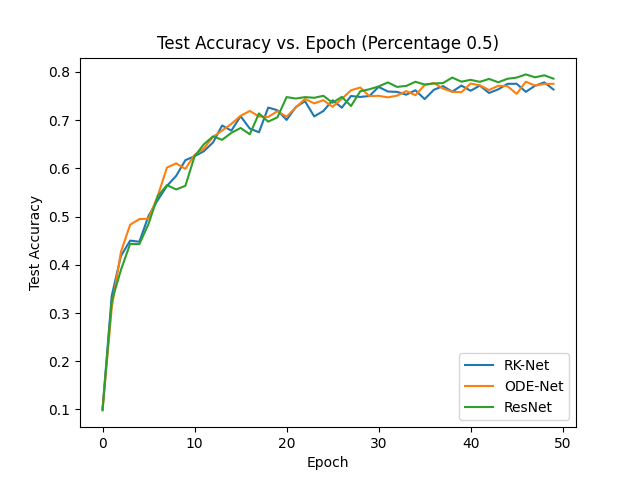
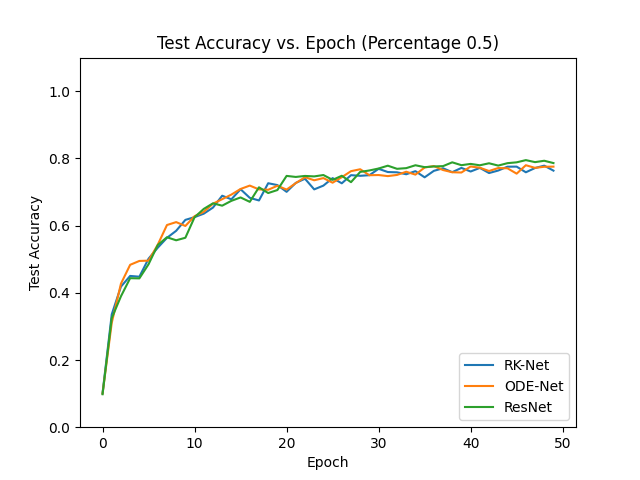
Changes y limit plots

diff --git a/experiments_data/plots_cifar10.py b/experiments_data/plots_cifar10.py
@@ -34,6 +34,9 @@ for percentage in percentage_values:
     ax.set_ylabel('Test Accuracy')
     ax.set_title(f'Test Accuracy vs. Epoch (Percentage {percentage})')
 
+    # Set y-axis limits from 0 to 1
+    ax.set_ylim(0, 1.1)
+
     # Add a legend at the bottom right
     ax.legend(loc='lower right')
 

diff --git a/experiments_data/plots_mnist.py b/experiments_data/plots_mnist.py
@@ -34,6 +34,9 @@ for percentage in percentage_values:
     ax.set_ylabel('Test Accuracy')
     ax.set_title(f'Test Accuracy vs. Epoch (Percentage {percentage})')
 
+    # Set y-axis limits from 0 to 1
+    ax.set_ylim(0, 1.1)
+
     # Add a legend at the bottom right
     ax.legend(loc='lower right')
 

diff --git a/README.md b/README.md
@@ -1,0 +1,77 @@
+# ODE-Net Analysis
+
+Explores the performance of ODE-Net, RK-Net, 
+and ResNet architectures on the MNIST and CIFAR-10 dataset. 
+Aims to visualize and compare test accuracy 
+results when training the model using randomly selected
+sample as percentage of the initial dataset.
+
+## Table of Contents
+
+- [Test Accuracy Plots](#test-accuracy-plots)
+  - [Percentage 0.01](#mnist-1)
+  - [Percentage 0.05](#percentage-005)
+  - [Percentage 0.1](#percentage-01)
+  - ... (repeat for other percentage values)
+- [Author](#author)
+- [License](#license)
+
+
+## Test Accuracy Plots
+
+Here, we present the test accuracy plots for the two datasets 
+(MNIST & CIFAR-10) for the different percentages of training data.
+
+### MNIST - 1%
+
+![Test Accuracy Percentage 0.01](experiments_data/plots/mnist_plot_percentage_0.01.png)
+
+### MNIST - 5%
+
+![Test Accuracy Percentage 0.05](experiments_data/plots/mnist_plot_percentage_0.05.png)
+
+### MNIST - 10%
+
+![Test Accuracy Percentage 0.1](experiments_data/plots/mnist_plot_percentage_0.1.png)
+
+### MNIST - 15%
+
+![Test Accuracy Percentage 0.15](experiments_data/plots/mnist_plot_percentage_0.15.png)
+
+### MNIST - 20%
+
+![Test Accuracy Percentage 0.20](experiments_data/plots/mnist_plot_percentage_0.2.png)
+
+### MNIST - 25%
+
+![Test Accuracy Percentage 0.25](experiments_data/plots/mnist_plot_percentage_0.25.png)
+
+### MNIST - 50%
+
+![Test Accuracy Percentage 0.50](experiments_data/plots/mnist_plot_percentage_0.5.png)
+
+### MNIST - 75%
+
+![Test Accuracy Percentage 0.75](experiments_data/plots/mnist_plot_percentage_0.75.png)
+
+### MNIST - 100%
+
+![Test Accuracy Percentage 1.0](experiments_data/plots/mnist_plot_percentage_1.0.png)
+
+### CIFAR-10 - 25%
+
+![Test Accuracy Percentage 0.25](experiments_data/plots/cifar10_plot_percentage_0.25.png)
+
+### CIFAR-10 - 50%
+
+![Test Accuracy Percentage 0.50](experiments_data/plots/cifar10_plot_percentage_0.5.png)
+
+### CIFAR-10 - 75%
+
+![Test Accuracy Percentage 0.75](experiments_data/plots/cifar10_plot_percentage_0.75.png)
+
+### CIFAR-10 - 100%
+
+![Test Accuracy Percentage 1.0](experiments_data/plots/cifar10_plot_percentage_1.0.png)
+
+
